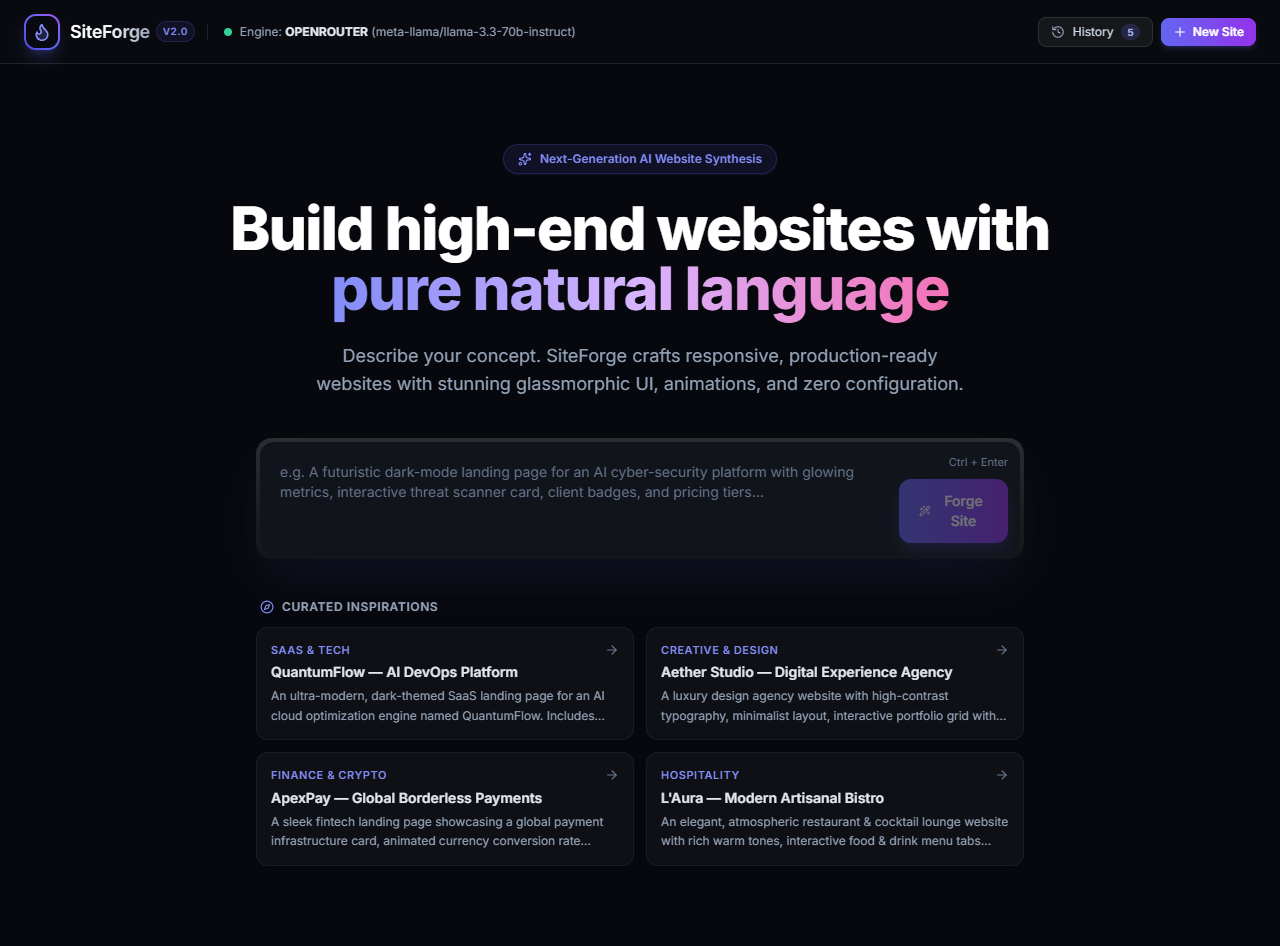
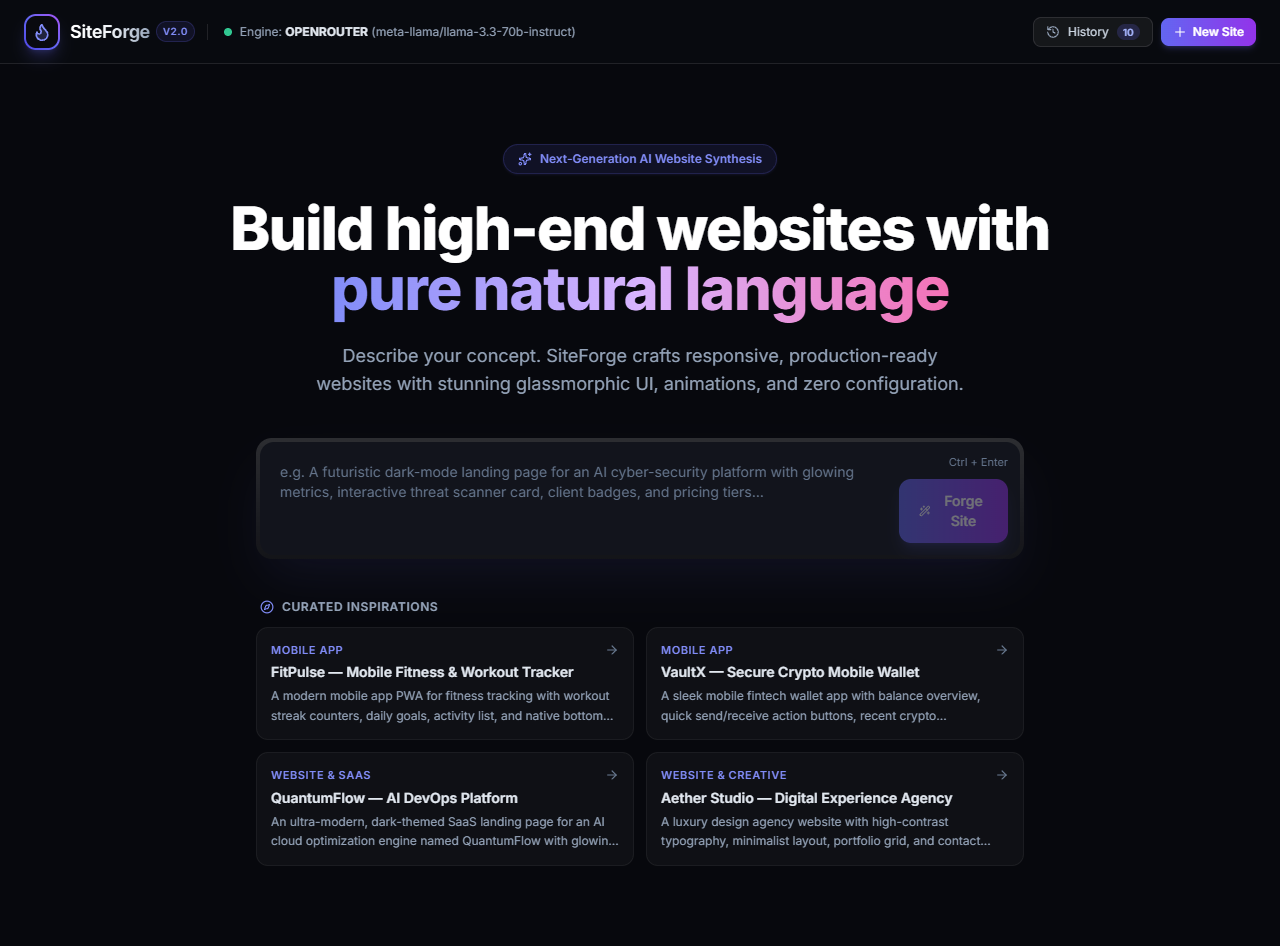
feat: add full codebase ZIP download export feature directly inside preview UI

diff --git a/frontend/src/components/PreviewViewport.jsx b/frontend/src/components/PreviewViewport.jsx
@@ -1,5 +1,5 @@
 import React, { useState, useRef } from 'react';
-import { Monitor, Laptop, Tablet, Smartphone, RotateCcw, RotateCw, ExternalLink, Check, Copy, ZoomIn, ZoomOut } from 'lucide-react';
+import { Monitor, Laptop, Tablet, Smartphone, RotateCcw, RotateCw, ExternalLink, Check, Copy, ZoomIn, ZoomOut, Download } from 'lucide-react';
 
 export default function PreviewViewport({ project, onOpenInNewTab }) {
   const [device, setDevice] = useState('desktop'); // desktop | laptop | tablet | mobile
@@ -22,6 +22,10 @@ export default function PreviewViewport({ project, onOpenInNewTab }) {
     navigator.clipboard.writeText(htmlContent);
     setCopied(true);
     setTimeout(() => setCopied(false), 2000);
+  };
+
+  const handleDownloadZip = () => {
+    window.open(`http://127.0.0.1:8000/api/download/${project.id}`, '_blank');
   };
 
   const deviceConfigs = {
@@ -107,6 +111,13 @@ export default function PreviewViewport({ project, onOpenInNewTab }) {
 
         {/* Project Name & Actions */}
         <div className="flex items-center gap-2">
+          <button
+            onClick={handleDownloadZip}
+            className="flex items-center gap-1.5 px-3 py-1.5 rounded-lg bg-indigo-500/10 hover:bg-indigo-500/20 border border-indigo-500/30 text-xs font-semibold text-indigo-400 transition"
+          >
+            <Download className="w-3.5 h-3.5" />
+            <span className="hidden sm:inline">Export ZIP</span>
+          </button>
           <button
             onClick={handleCopy}
             className="flex items-center gap-1.5 px-3 py-1.5 rounded-lg bg-white/5 hover:bg-white/10 border border-white/10 text-xs text-slate-200 transition"

diff --git a/backend/app/main.py b/backend/app/main.py
@@ -172,6 +172,33 @@ def refine_site(req: RefineRequest):
     except Exception as e:
         raise HTTPException(status_code=500, detail=str(e))
 
+import zipfile
+import io
+
+@app.get("/api/download/{project_id}")
+def download_project_zip(project_id: int):
+    project = get_project_by_id(project_id)
+    if not project:
+        raise HTTPException(status_code=404, detail="Project not found")
+        
+    files = project.get("files", {})
+    if not files:
+        raise HTTPException(status_code=404, detail="No files found for project")
+        
+    zip_buffer = io.BytesIO()
+    with zipfile.ZipFile(zip_buffer, "a", zipfile.ZIP_DEFLATED, False) as zip_file:
+        for filename, content in files.items():
+            zip_file.writestr(filename, content)
+            
+    zip_buffer.seek(0)
+    return Response(
+        content=zip_buffer.getvalue(),
+        media_type="application/x-zip-compressed",
+        headers={
+            "Content-Disposition": f'attachment; filename="siteforge_project_{project_id}.zip"'
+        }
+    )
+
 # Mount compiled frontend if available
 FRONTEND_DIST = Path(__file__).resolve().parent.parent.parent / "frontend" / "dist"
 if FRONTEND_DIST.exists():
